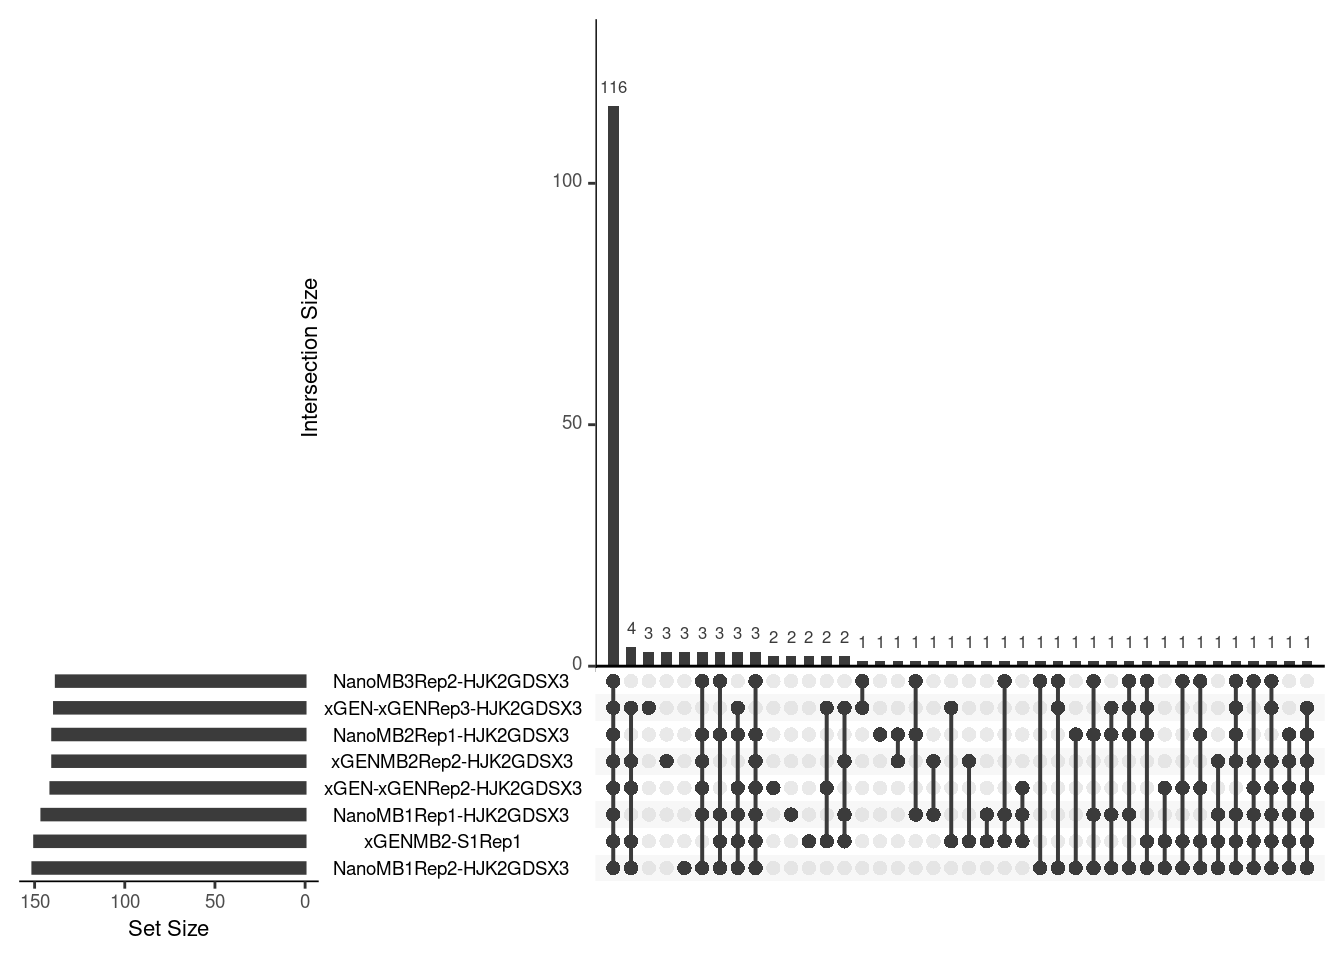
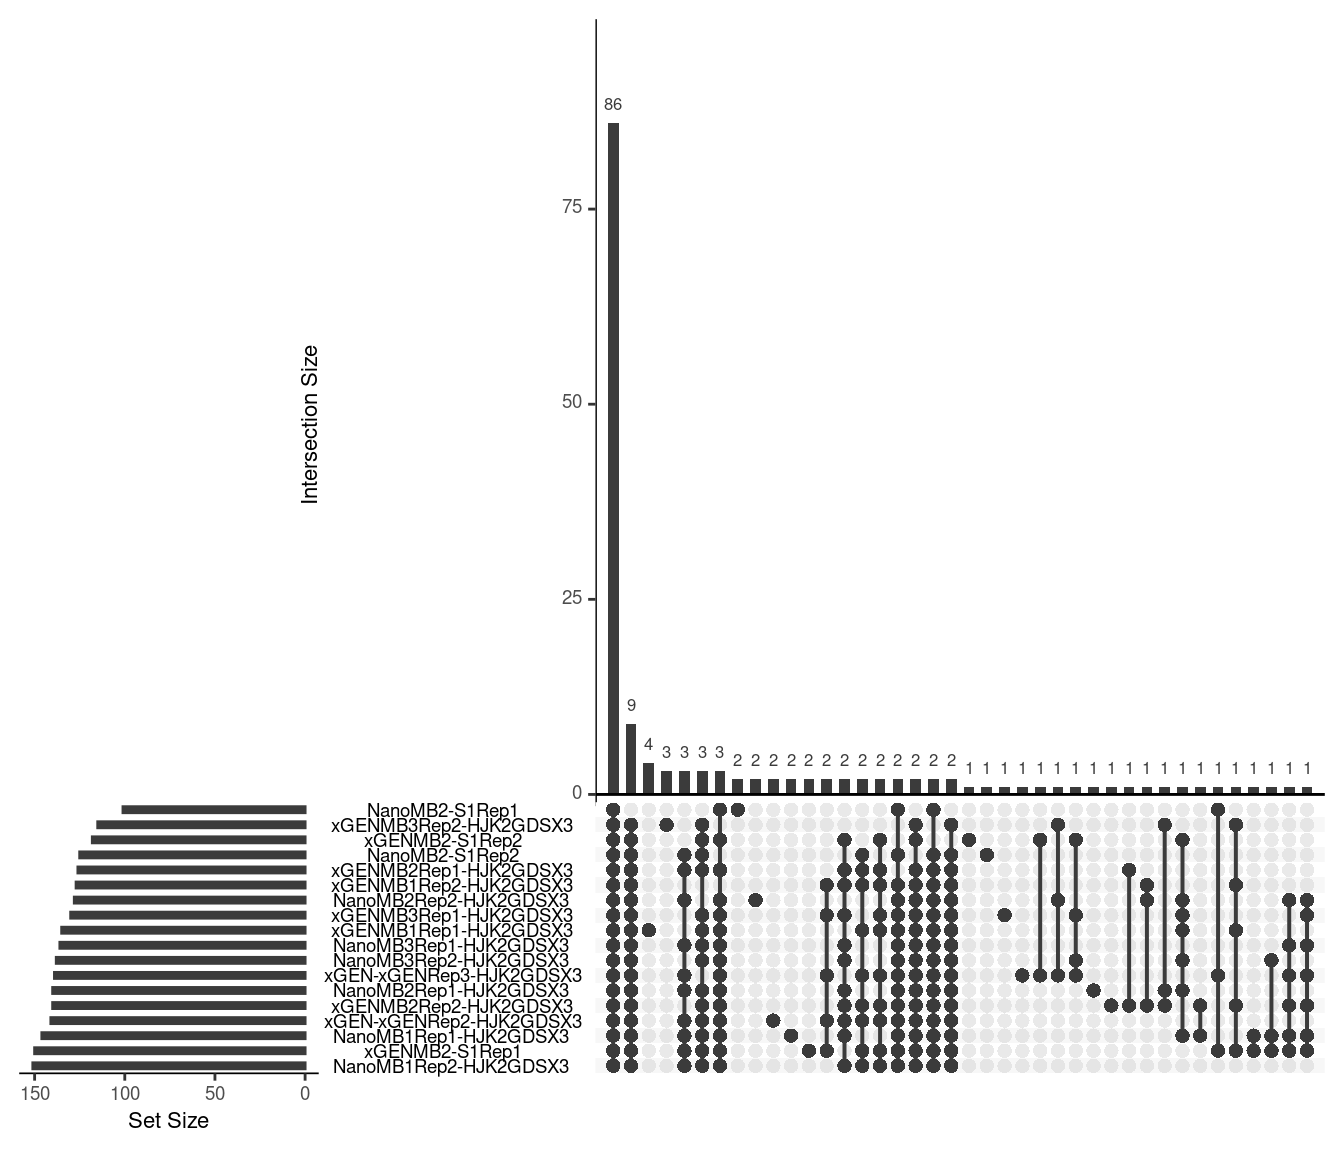
Build site.

diff --git a/docs/ecoli_K12.html b/docs/ecoli_K12.html
@@ -394,7 +394,7 @@ div.tocify {
 <div class="tab-content">
 <div id="summary" class="tab-pane fade in active">
 <p>
-<strong>Last updated:</strong> 2022-04-11
+<strong>Last updated:</strong> 2022-04-25
 </p>
 <p>
 <strong>Checks:</strong> <span class="glyphicon glyphicon-ok text-success" aria-hidden="true"></span> 7 <span class="glyphicon glyphicon-exclamation-sign text-danger" aria-hidden="true"></span> 0
@@ -485,16 +485,16 @@ This reproducible <a href="http://rmarkdown.rstudio.com">R Markdown</a> analysis
 <div class="panel panel-default">
 <div class="panel-heading">
 <p class="panel-title">
-<a data-toggle="collapse" data-parent="#workflowr-checks" href="#strongRepositoryversionstrongahrefhttpsgithubcommcmeroraremutationdetectiontree6f2c2bbbb905f8c6561f46c3b8a8a015551320d9targetblank6f2c2bba"> <span class="glyphicon glyphicon-ok text-success" aria-hidden="true"></span> <strong>Repository version:</strong> <a href="https://github.com/mcmero/rare-mutation-detection/tree/6f2c2bbbb905f8c6561f46c3b8a8a015551320d9" target="_blank">6f2c2bb</a> </a>
+<a data-toggle="collapse" data-parent="#workflowr-checks" href="#strongRepositoryversionstrongahrefhttpsgithubcommcmeroraremutationdetectiontree30f532f9f8f97914a237df24fbcae4518c26f5e8targetblank30f532fa"> <span class="glyphicon glyphicon-ok text-success" aria-hidden="true"></span> <strong>Repository version:</strong> <a href="https://github.com/mcmero/rare-mutation-detection/tree/30f532f9f8f97914a237df24fbcae4518c26f5e8" target="_blank">30f532f</a> </a>
 </p>
 </div>
[2 lines of base64/hex data omitted]
 <div class="panel-body">
 <p>
 Great! You are using Git for version control. Tracking code development and connecting the code version to the results is critical for reproducibility.
 </p>
 <p>
-The results in this page were generated with repository version <a href="https://github.com/mcmero/rare-mutation-detection/tree/6f2c2bbbb905f8c6561f46c3b8a8a015551320d9" target="_blank">6f2c2bb</a>. See the <em>Past versions</em> tab to see a history of the changes made to the R Markdown and HTML files.
+The results in this page were generated with repository version <a href="https://github.com/mcmero/rare-mutation-detection/tree/30f532f9f8f97914a237df24fbcae4518c26f5e8" target="_blank">30f532f</a>. See the <em>Past versions</em> tab to see a history of the changes made to the R Markdown and HTML files.
 </p>
 <p>
 Note that you need to be careful to ensure that all relevant files for the analysis have been committed to Git prior to generating the results (you can use <code>wflow_publish</code> or <code>wflow_git_commit</code>). workflowr only checks the R Markdown file, but you know if there are other scripts or data files that it depends on. Below is the status of the Git repository when the results were generated:
@@ -506,6 +506,7 @@ Ignored files:
     Ignored:    .Rhistory
     Ignored:    .Rproj.user/
     Ignored:    analysis/.DS_Store
+    Ignored:    analysis/figure/
     Ignored:    scripts/
 
 Untracked files:
@@ -521,7 +522,7 @@ Untracked files:
     Untracked:  prototype_code/
 
 Unstaged changes:
-    Modified:   analysis/model.Rmd
+    Modified:   analysis/ecoli.Rmd
 
 </code></pre>
 <p>
@@ -560,6 +561,40 @@ Message
 </tr>
 </thead>
 <tbody>
+<tr>
+<td>
+Rmd
+</td>
+<td>
+<a href="https://github.com/mcmero/rare-mutation-detection/blob/30f532f9f8f97914a237df24fbcae4518c26f5e8/analysis/ecoli_K12.Rmd" target="_blank">30f532f</a>
+</td>
+<td>
+Marek Cmero
+</td>
+<td>
+2022-04-25
+</td>
+<td>
+Include all samples in variant upset plot
+</td>
+</tr>
+<tr>
+<td>
+html
+</td>
+<td>
+<a href="https://rawcdn.githack.com/mcmero/rare-mutation-detection/fcb6578c014536c59339c72554c3a9f7844e0dde/docs/ecoli_K12.html" target="_blank">fcb6578</a>
+</td>
+<td>
+Marek Cmero
+</td>
+<td>
+2022-04-11
+</td>
+<td>
+Build site.
+</td>
+</tr>
 <tr>
 <td>
 Rmd
@@ -1362,6 +1397,17 @@ Date
 <tbody>
 <tr>
 <td>
+<a href="https://github.com/mcmero/rare-mutation-detection/blob/fcb6578c014536c59339c72554c3a9f7844e0dde/docs/figure/ecoli_K12.Rmd/gc_deviation-1.png" target="_blank">fcb6578</a>
+</td>
+<td>
+Marek Cmero
+</td>
+<td>
+2022-04-11
+</td>
+</tr>
+<tr>
+<td>
 <a href="https://github.com/mcmero/rare-mutation-detection/blob/a2f0a4a07b138167d30f1fb7c80004ee4f59937a/docs/figure/ecoli_K12.Rmd/gc_deviation-1.png" target="_blank">a2f0a4a</a>
 </td>
 <td>
@@ -1514,6 +1560,43 @@ Marek Cmero
         theme_bw() +
         ggtitle(&#39;Family pair sizes&#39;)</code></pre>
 <p><img src="figure/ecoli_K12.Rmd/family_sizes-1.png" width="768" style="display: block; margin: auto;" /></p>
+<p>
+<button type="button" class="btn btn-default btn-xs btn-workflowr btn-workflowr-fig" data-toggle="collapse" data-target="#fig-family_sizes-1">
+Past versions of family_sizes-1.png
+</button>
+</p>
+<div id="fig-family_sizes-1" class="collapse">
+<div class="table-responsive">
+<table class="table table-condensed table-hover">
+<thead>
+<tr>
+<th>
+Version
+</th>
+<th>
+Author
+</th>
+<th>
+Date
+</th>
+</tr>
+</thead>
+<tbody>
+<tr>
+<td>
+<a href="https://github.com/mcmero/rare-mutation-detection/blob/fcb6578c014536c59339c72554c3a9f7844e0dde/docs/figure/ecoli_K12.Rmd/family_sizes-1.png" target="_blank">fcb6578</a>
+</td>
+<td>
+Marek Cmero
+</td>
+<td>
+2022-04-11
+</td>
+</tr>
+</tbody>
+</table>
+</div>
+</div>
 <p>The following plot shows:</p>
 <ul>
 <li>families_gt1: number of family pairs where at least one family (AB or BA) has &gt; 1 reads.</li>
@@ -1525,6 +1608,43 @@ Marek Cmero
         theme_bw() +
         ggtitle(&#39;Family statistics&#39;)</code></pre>
 <p><img src="figure/ecoli_K12.Rmd/family_stats-1.png" width="768" style="display: block; margin: auto;" /></p>
+<p>
+<button type="button" class="btn btn-default btn-xs btn-workflowr btn-workflowr-fig" data-toggle="collapse" data-target="#fig-family_stats-1">
+Past versions of family_stats-1.png
+</button>
+</p>
+<div id="fig-family_stats-1" class="collapse">
+<div class="table-responsive">
+<table class="table table-condensed table-hover">
+<thead>
+<tr>
+<th>
+Version
+</th>
+<th>
+Author
+</th>
+<th>
+Date
+</th>
+</tr>
+</thead>
+<tbody>
+<tr>
+<td>
+<a href="https://github.com/mcmero/rare-mutation-detection/blob/fcb6578c014536c59339c72554c3a9f7844e0dde/docs/figure/ecoli_K12.Rmd/family_stats-1.png" target="_blank">fcb6578</a>
+</td>
+<td>
+Marek Cmero
+</td>
+<td>
+2022-04-11
+</td>
+</tr>
+</tbody>
+</table>
+</div>
+</div>
 </div>
 <div id="compare-metrics-side-by-side" class="section level2">
 <h2>Compare metrics side-by-side</h2>
@@ -1571,6 +1691,17 @@ Date
 </tr>
 </thead>
 <tbody>
+<tr>
+<td>
+<a href="https://github.com/mcmero/rare-mutation-detection/blob/fcb6578c014536c59339c72554c3a9f7844e0dde/docs/figure/ecoli_K12.Rmd/metrics_comp-1.png" target="_blank">fcb6578</a>
+</td>
+<td>
+Marek Cmero
+</td>
+<td>
+2022-04-11
+</td>
+</tr>
 <tr>
 <td>
 <a href="https://github.com/mcmero/rare-mutation-detection/blob/81272b2356f01b49a7d0c32f4e62d9d5d8d17f9e/docs/figure/ecoli_K12.Rmd/metrics_comp-1.png" target="_blank">81272b2</a>
@@ -1641,6 +1772,17 @@ Date
 </tr>
 </thead>
 <tbody>
+<tr>
+<td>
+<a href="https://github.com/mcmero/rare-mutation-detection/blob/fcb6578c014536c59339c72554c3a9f7844e0dde/docs/figure/ecoli_K12.Rmd/metrics_comp-2.png" target="_blank">fcb6578</a>
+</td>
+<td>
+Marek Cmero
+</td>
+<td>
+2022-04-11
+</td>
+</tr>
 <tr>
 <td>
 <a href="https://github.com/mcmero/rare-mutation-detection/blob/a8601010ee4d8b48191aeedf7be6bb95ae0b1234/docs/figure/ecoli_K12.Rmd/metrics_comp-2.png" target="_blank">a860101</a>
@@ -1724,6 +1866,17 @@ Date
 <tbody>
 <tr>
 <td>
+<a href="https://github.com/mcmero/rare-mutation-detection/blob/fcb6578c014536c59339c72554c3a9f7844e0dde/docs/figure/ecoli_K12.Rmd/metrics_comp-3.png" target="_blank">fcb6578</a>
+</td>
+<td>
+Marek Cmero
+</td>
+<td>
+2022-04-11
+</td>
+</tr>
+<tr>
+<td>
 <a href="https://github.com/mcmero/rare-mutation-detection/blob/81272b2356f01b49a7d0c32f4e62d9d5d8d17f9e/docs/figure/ecoli_K12.Rmd/metrics_comp-3.png" target="_blank">81272b2</a>
 </td>
 <td>
@@ -1794,6 +1947,17 @@ Date
 <tbody>
 <tr>
 <td>
+<a href="https://github.com/mcmero/rare-mutation-detection/blob/fcb6578c014536c59339c72554c3a9f7844e0dde/docs/figure/ecoli_K12.Rmd/metrics_comp-4.png" target="_blank">fcb6578</a>
+</td>
+<td>
+Marek Cmero
+</td>
+<td>
+2022-04-11
+</td>
+</tr>
+<tr>
+<td>
 <a href="https://github.com/mcmero/rare-mutation-detection/blob/81272b2356f01b49a7d0c32f4e62d9d5d8d17f9e/docs/figure/ecoli_K12.Rmd/metrics_comp-4.png" target="_blank">81272b2</a>
 </td>
 <td>
@@ -1862,6 +2026,17 @@ Date
 </tr>
 </thead>
 <tbody>
+<tr>
+<td>
+<a href="https://github.com/mcmero/rare-mutation-detection/blob/fcb6578c014536c59339c72554c3a9f7844e0dde/docs/figure/ecoli_K12.Rmd/metrics_comp-5.png" target="_blank">fcb6578</a>
+</td>
+<td>
+Marek Cmero
+</td>
+<td>
+2022-04-11
+</td>
+</tr>
 <tr>
 <td>
 <a href="https://github.com/mcmero/rare-mutation-detection/blob/a2f0a4a07b138167d30f1fb7c80004ee4f59937a/docs/figure/ecoli_K12.Rmd/metrics_comp-5.png" target="_blank">a2f0a4a</a>
@@ -1967,6 +2142,17 @@ Date
 <tbody>
 <tr>
 <td>
+<a href="https://github.com/mcmero/rare-mutation-detection/blob/fcb6578c014536c59339c72554c3a9f7844e0dde/docs/figure/ecoli_K12.Rmd/metrics_comp-6.png" target="_blank">fcb6578</a>
+</td>
+<td>
+Marek Cmero
+</td>
+<td>
+2022-04-11
+</td>
+</tr>
+<tr>
+<td>
 <a href="https://github.com/mcmero/rare-mutation-detection/blob/81272b2356f01b49a7d0c32f4e62d9d5d8d17f9e/docs/figure/ecoli_K12.Rmd/metrics_comp-6.png" target="_blank">81272b2</a>
 </td>
 <td>
@@ -2034,6 +2220,17 @@ Date
 </tr>
 </thead>
 <tbody>
+<tr>
+<td>
+<a href="https://github.com/mcmero/rare-mutation-detection/blob/fcb6578c014536c59339c72554c3a9f7844e0dde/docs/figure/ecoli_K12.Rmd/unnamed-chunk-1-1.png" target="_blank">fcb6578</a>
+</td>
+<td>
+Marek Cmero
+</td>
+<td>
+2022-04-11
+</td>
+</tr>
 <tr>
 <td>
 <a href="https://github.com/mcmero/rare-mutation-detection/blob/a2f0a4a07b138167d30f1fb7c80004ee4f59937a/docs/figure/ecoli_K12.Rmd/unnamed-chunk-1-1.png" target="_blank">a2f0a4a</a>
@@ -2156,6 +2353,17 @@ Date
 <tbody>
 <tr>
 <td>
+<a href="https://github.com/mcmero/rare-mutation-detection/blob/fcb6578c014536c59339c72554c3a9f7844e0dde/docs/figure/ecoli_K12.Rmd/unnamed-chunk-1-2.png" target="_blank">fcb6578</a>
+</td>
+<td>
+Marek Cmero
+</td>
+<td>
+2022-04-11
+</td>
+</tr>
+<tr>
+<td>
 <a href="https://github.com/mcmero/rare-mutation-detection/blob/a2f0a4a07b138167d30f1fb7c80004ee4f59937a/docs/figure/ecoli_K12.Rmd/unnamed-chunk-1-2.png" target="_blank">a2f0a4a</a>
 </td>
 <td>
@@ -2267,7 +2475,7 @@ print(stats)</code></pre>
 1        frac_singletons 0.3509205995       FALSE
 2             efficiency 0.0016455448        TRUE
 3          drop_out_rate 0.0016563300        TRUE
-4           gc_deviation 0.0008310818        TRUE
+4           gc_deviation 0.0341424916        TRUE
 5            family_mean 0.2739786956       FALSE
 6          family_median 0.3816330944       FALSE
 7             family_max 0.4142481163       FALSE
@@ -2311,11 +2519,11 @@ print(stats)</code></pre>
 13         drop_out_rate S1Unit                0.0904262242       FALSE
 14         drop_out_rate MungBeanUnit:protocol 0.8387881526       FALSE
 15         drop_out_rate protocol:S1Unit       0.3182162279       FALSE
-16          gc_deviation MungBeanUnit          0.9790965296       FALSE
-17          gc_deviation protocol              0.0053340027        TRUE
-18          gc_deviation S1Unit                0.5436516290       FALSE
-19          gc_deviation MungBeanUnit:protocol 0.9873813522       FALSE
-20          gc_deviation protocol:S1Unit       0.9754399078       FALSE
+16          gc_deviation MungBeanUnit          0.5747727472       FALSE
+17          gc_deviation protocol              0.0294478524        TRUE
+18          gc_deviation S1Unit                0.3704506364       FALSE
+19          gc_deviation MungBeanUnit:protocol 0.5896378251       FALSE
+20          gc_deviation protocol:S1Unit       0.7211243913       FALSE
 21           family_mean MungBeanUnit          0.3721341384       FALSE
 22           family_mean protocol              0.2541550650       FALSE
 23           family_mean S1Unit                0.2914711924       FALSE
@@ -2606,7 +2814,7 @@ for(sample in sample_names) {
     }
 }
 
-upset(fromList(ulist), order.by=&#39;freq&#39;, nsets=8)</code></pre>
+upset(fromList(ulist), order.by=&#39;freq&#39;, nsets=length(sample_names))</code></pre>
 <p><img src="figure/ecoli_K12.Rmd/variants-1.png" width="672" style="display: block; margin: auto;" /></p>
 <p>
 <button type="button" class="btn btn-default btn-xs btn-workflowr btn-workflowr-fig" data-toggle="collapse" data-target="#fig-variants-1">
